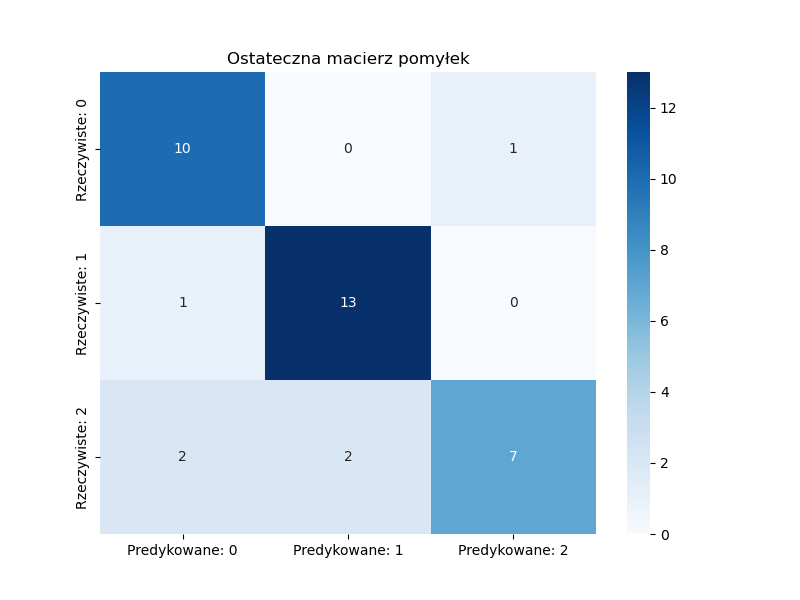
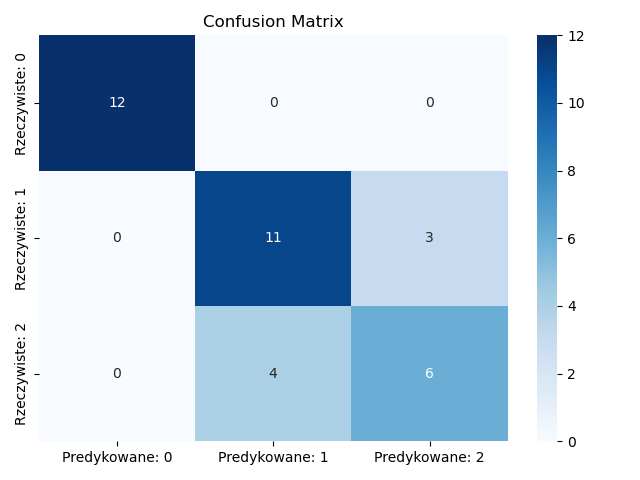
Add evaluation metrics and confusion matrix plotting; update KNN script and data loading functions

diff --git a/src/utils/metrics.py b/src/utils/metrics.py
@@ -1,5 +1,9 @@
 import numpy as np
+import pandas as pd
 from typing import Sequence
+import matplotlib.pyplot as plt
+from pathlib import Path
+from ..visualization.plots import ensure_directory
 
 
 def accuracy(y_true: Sequence, y_pred: Sequence) -> float:
@@ -56,3 +60,50 @@ def f1_score(y_true: Sequence, y_pred: Sequence, average: str = "macro") -> floa
     p = precision(y_true, y_pred, average)
     r = recall(y_true, y_pred, average)
     return float((2 * p * r) / (p + r)) if p + r else 0.0
+
+
+def confusion_matrix(y_true: Sequence, y_pred: Sequence) -> pd.DataFrame:
+    """Compute the confusion matrix as a DataFrame with labels."""
+    y_true = np.asarray(y_true)
+    y_pred = np.asarray(y_pred)
+    classes = np.unique(np.concatenate((y_true, y_pred)))
+    matrix = np.zeros((len(classes), len(classes)), dtype=int)
+    for i, cls in enumerate(classes):
+        for j, pred_cls in enumerate(classes):
+            matrix[i, j] = np.sum((y_true == cls) & (y_pred == pred_cls))
+
+    idx = [f"Rzeczywiste: {c}" for c in classes]
+    cols = [f"Predykowane: {c}" for c in classes]
+    return pd.DataFrame(matrix, index=idx, columns=cols)
+
+
+def plot_evaluation_metrics(
+    y_true: np.ndarray,
+    y_pred: np.ndarray,
+    results_dir: Path,
+    average: str = "macro",
+    filename: str = "evaluation_metrics.png",
+) -> None:
+    """
+    Compute accuracy, precision, recall, F1 and plot as horizontal bar chart with labels.
+    """
+    from ..utils.metrics import accuracy, precision, recall, f1_score
+
+    metrics = {
+        "Accuracy": accuracy(y_true, y_pred),
+        f"Precision ({average})": precision(y_true, y_pred, average=average),
+        f"Recall ({average})": recall(y_true, y_pred, average=average),
+        f"F1 Score ({average})": f1_score(y_true, y_pred, average=average),
+    }
+
+    ensure_directory(results_dir)
+
+    fig, ax = plt.subplots(figsize=(6, 4))
+    bars = ax.barh(list(metrics.keys()), list(metrics.values()))
+    ax.set_xlabel("Score")
+    ax.set_title("Model Evaluation Metrics")
+    ax.bar_label(bars, fmt="%.4f", padding=3)
+
+    plt.tight_layout()
+    plt.savefig(results_dir / filename)
+    plt.show()

diff --git a/scripts/run_knn.py b/scripts/run_knn.py
@@ -1,7 +1,16 @@
 from pathlib import Path
+import numpy as np
 from src.config import KNN_RESULTS_DIR, default_params
 from src.data.loader import load_wine_data
-from src.utils.metrics import accuracy, precision, recall, f1_score
+from src.utils.data_ops import shuffle_and_split
+from src.utils.metrics import (
+    accuracy,
+    precision,
+    recall,
+    f1_score,
+    confusion_matrix,
+    plot_evaluation_metrics,
+)
 from src.visualization.plots import (
     ensure_directory,
     plot_line,
@@ -17,11 +26,17 @@ def main():
     ensure_directory(results_dir)
 
     X, y = load_wine_data()
+
     X_train_full, X_test, y_train_full, y_test = train_test_split(
-        X, y, test_size=0.2, random_state=42
+        X, y, test_size=0.2, random_state=42, stratify=y
     )
+
     X_train, X_val, y_train, y_val = train_test_split(
-        X_train_full, y_train_full, test_size=0.2, random_state=42
+        X_train_full,
+        y_train_full,
+        test_size=0.2,
+        random_state=42,
+        stratify=y_train_full,
     )
 
     k_vals = list(range(1, 16))
@@ -30,6 +45,7 @@ def main():
         k_vals, errs_k, "k", "Error rate", "Optimize k", results_dir, "optimize_k.png"
     )
     best_k = k_vals[errs_k.index(min(errs_k))]
+    print(f"The best k value: {best_k}")
 
     p_vals = [1, 1.5, 2, 3, 4]
     errs_p = optimize_p(X_train, y_train, X_val, y_val, p_vals, k=best_k)
@@ -37,15 +53,18 @@ def main():
         p_vals, errs_p, "p", "Error rate", "Optimize p", results_dir, "optimize_p.png"
     )
     best_p = p_vals[errs_p.index(min(errs_p))]
+    print(f"The best p value: {best_p}")
 
     model = KNNClassifier(k=best_k, metric="minkowski", p=best_p).fit(
         X_train_full, y_train_full
     )
     y_pred = model.predict(X_test)
 
+    plot_evaluation_metrics(y_test, y_pred, results_dir, average="macro")
+
     cm = confusion_matrix(y_test, y_pred)
-    print(cm)
     plot_confusion_matrix(cm, results_dir)
+
     plot_tsne(X_test, y_pred, results_dir, "t-SNE k-NN Results", "tsne_knn.png")
 
 

diff --git a/src/data/loader.py b/src/data/loader.py
@@ -1,4 +1,5 @@
 import pandas as pd
+import numpy as np
 from sklearn.datasets import load_wine
 from pathlib import Path
 from ..config import RAW_DATA_DIR, PROCESSED_DATA_DIR
@@ -8,15 +9,15 @@ def load_banknote_data(filename: str) -> pd.DataFrame:
     """Load banknote authentication CSV into DataFrame."""
     path = RAW_DATA_DIR / filename
     df = pd.read_csv(path, header=None)
-    df.columns = ['variance','skewness','curtosis','entropy','class']
+    df.columns = ["variance", "skewness", "curtosis", "entropy", "class"]
     return df
 
 
-def load_wine_data() -> (pd.DataFrame, pd.Series):
-    """Load sklearn wine dataset into DataFrame and Series."""
+def load_wine_data() -> tuple[np.ndarray, np.ndarray]:
+    """Load sklearn wine dataset into numpy arrays."""
     data = load_wine()
-    X = pd.DataFrame(data.data, columns=data.feature_names)
-    y = pd.Series(data.target, name='target')
+    X = np.array(data.data, dtype=np.float64)
+    y = np.array(data.target, dtype=np.int64)
     return X, y
 
 

diff --git a/src/visualization/plots.py b/src/visualization/plots.py
@@ -22,9 +22,13 @@ def plot_pairplot(
 def plot_tsne(
     X: np.ndarray, y: np.ndarray, results_dir: Path, title: str, filename: str
 ) -> np.ndarray:
-    emb = TSNE(
-        **__import__("..config", fromlist=["default_params"]).default_params["tsne"]
-    ).fit_transform(X)
+    """Transform data with t-SNE and plot."""
+    # Only use n_components and random_state from config to preserve sklearn defaults
+    from ..config import default_params
+
+    tsne_params = default_params.get("tsne", {})
+    emb = TSNE(**tsne_params).fit_transform(X)
+
     plt.figure(figsize=(8, 6))
     scatter = plt.scatter(
         emb[:, 0], emb[:, 1], c=y, cmap="viridis", s=50, edgecolor="k"

diff --git a/src/utils/data_ops.py b/src/utils/data_ops.py
@@ -1,0 +1,23 @@
+import numpy as np
+from typing import Tuple
+
+
+def shuffle_and_split(
+    X: np.ndarray,
+    y: np.ndarray,
+    split_ratio: float,
+    random_state: int = 42,
+    shuffle: bool = True,
+) -> Tuple[np.ndarray, np.ndarray, np.ndarray, np.ndarray]:
+    """
+    Shuffle X, y (opcjonalnie) i podziel na dwie części.
+    Zwraca:
+      X1, y1 – pierwsza część (split_ratio * n_samples)
+      X2, y2 – druga część
+    """
+    if shuffle:
+        rng = np.random.default_rng(random_state)
+        perm = rng.permutation(len(X))
+        X, y = X[perm], y[perm]
+    n1 = int(split_ratio * len(X))
+    return X[:n1], y[:n1], X[n1:], y[n1:]

diff --git a/src/config.py b/src/config.py
@@ -13,11 +13,5 @@ PERCEPTRON_RESULTS_DIR = RESULTS_DIR / "task_perceptron_results"
 default_params = {
     "knn": {"k": 3, "metric": "euclidean", "p": 2},
     "perceptron": {"learning_rate": 0.01, "n_iter": 1000, "tolerance": 1e-4},
-    "tsne": {
-        "n_components": 2,
-        "perplexity": 30,
-        "learning_rate": 200,
-        "n_iter": 1000,
-        "random_state": 42,
-    },
+    "tsne": {"n_components": 2, "random_state": 42},
 }
